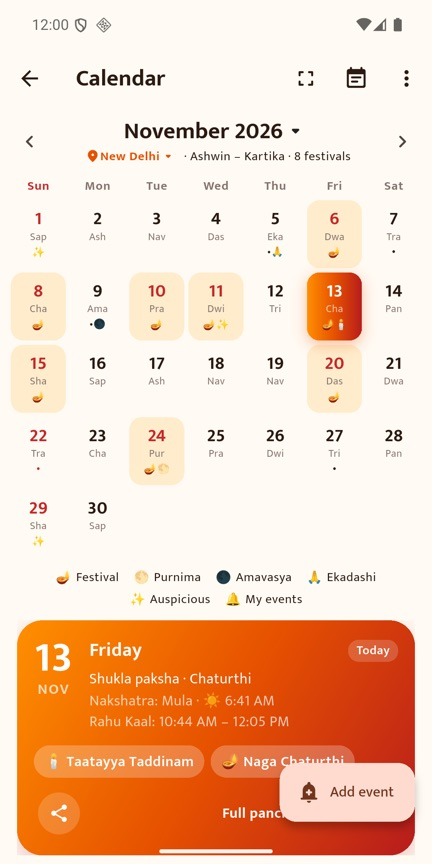
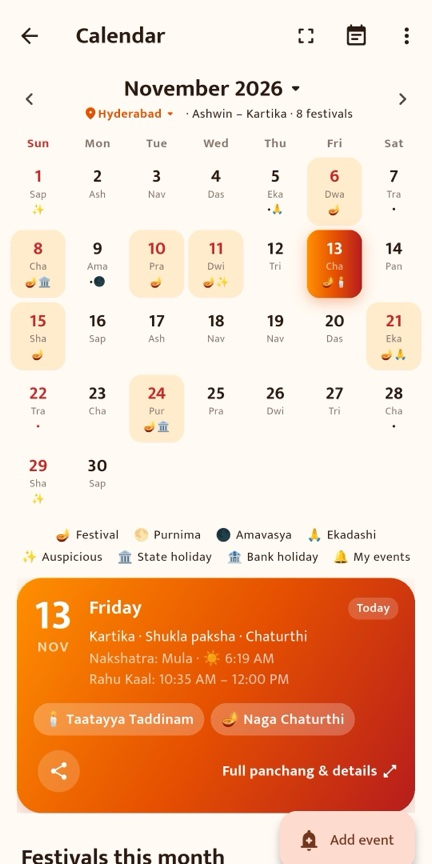
Screenshots for 1.4: calendar with state holidays, Shubha Muhurtham, Jatakam, pooja guide and thought of the day

diff --git a/README.md b/README.md
@@ -55,14 +55,17 @@ Sanatan, but Devalay is an **original** app with its own name, design, code and 
 
 ## Screenshots
 
-New in 1.4: a calendar with Choghadiya, Hora and Gowri timings, a home-screen widget, important days, marriage
-matching, and the whole app in 11 languages.
+New in 1.4: the whole app in 11 languages; a calendar with Choghadiya, Hora and Gowri timings, state holidays and
+regional dates; Shubha Muhurtham, eclipses and Jatakam; pooja guides; a thought of the day; widgets; and marriage
+matching.
 
 | Home | Calendar with festivals and auspicious days | Choghadiya, Hora and Gowri, with the running period | Important days |
 |:-:|:-:|:-:|:-:|
 | <img src="docs/screenshots/13-home.jpg" width="200"> | <img src="docs/screenshots/14-calendar.jpg" width="200"> | <img src="docs/screenshots/15-timings.jpg" width="200"> | <img src="docs/screenshots/16-important-days.jpg" width="200"> |
 | **Home-screen widget** | **11 Indian languages** | **The whole app in Tamil** | **Marriage matching (Guna Milan)** |
 | <img src="docs/screenshots/17-widget.jpg" width="200"> | <img src="docs/screenshots/18-languages.jpg" width="200"> | <img src="docs/screenshots/19-tamil-home.jpg" width="200"> | <img src="docs/screenshots/20-matching.jpg" width="200"> |
+| **Thought of the day** | **Shubha Muhurtham** | **Jatakam (birth chart)** | **Pooja guides with samagri** |
+| <img src="docs/screenshots/21-thought-of-the-day.jpg" width="200"> | <img src="docs/screenshots/22-muhurtham.jpg" width="200"> | <img src="docs/screenshots/23-jatakam.jpg" width="200"> | <img src="docs/screenshots/24-pooja-guide.jpg" width="200"> |
 
 | Home in dark theme | Home with today's Panchang and songs | Telugu Panchangam | Good times and times to avoid |
 |:-:|:-:|:-:|:-:|
